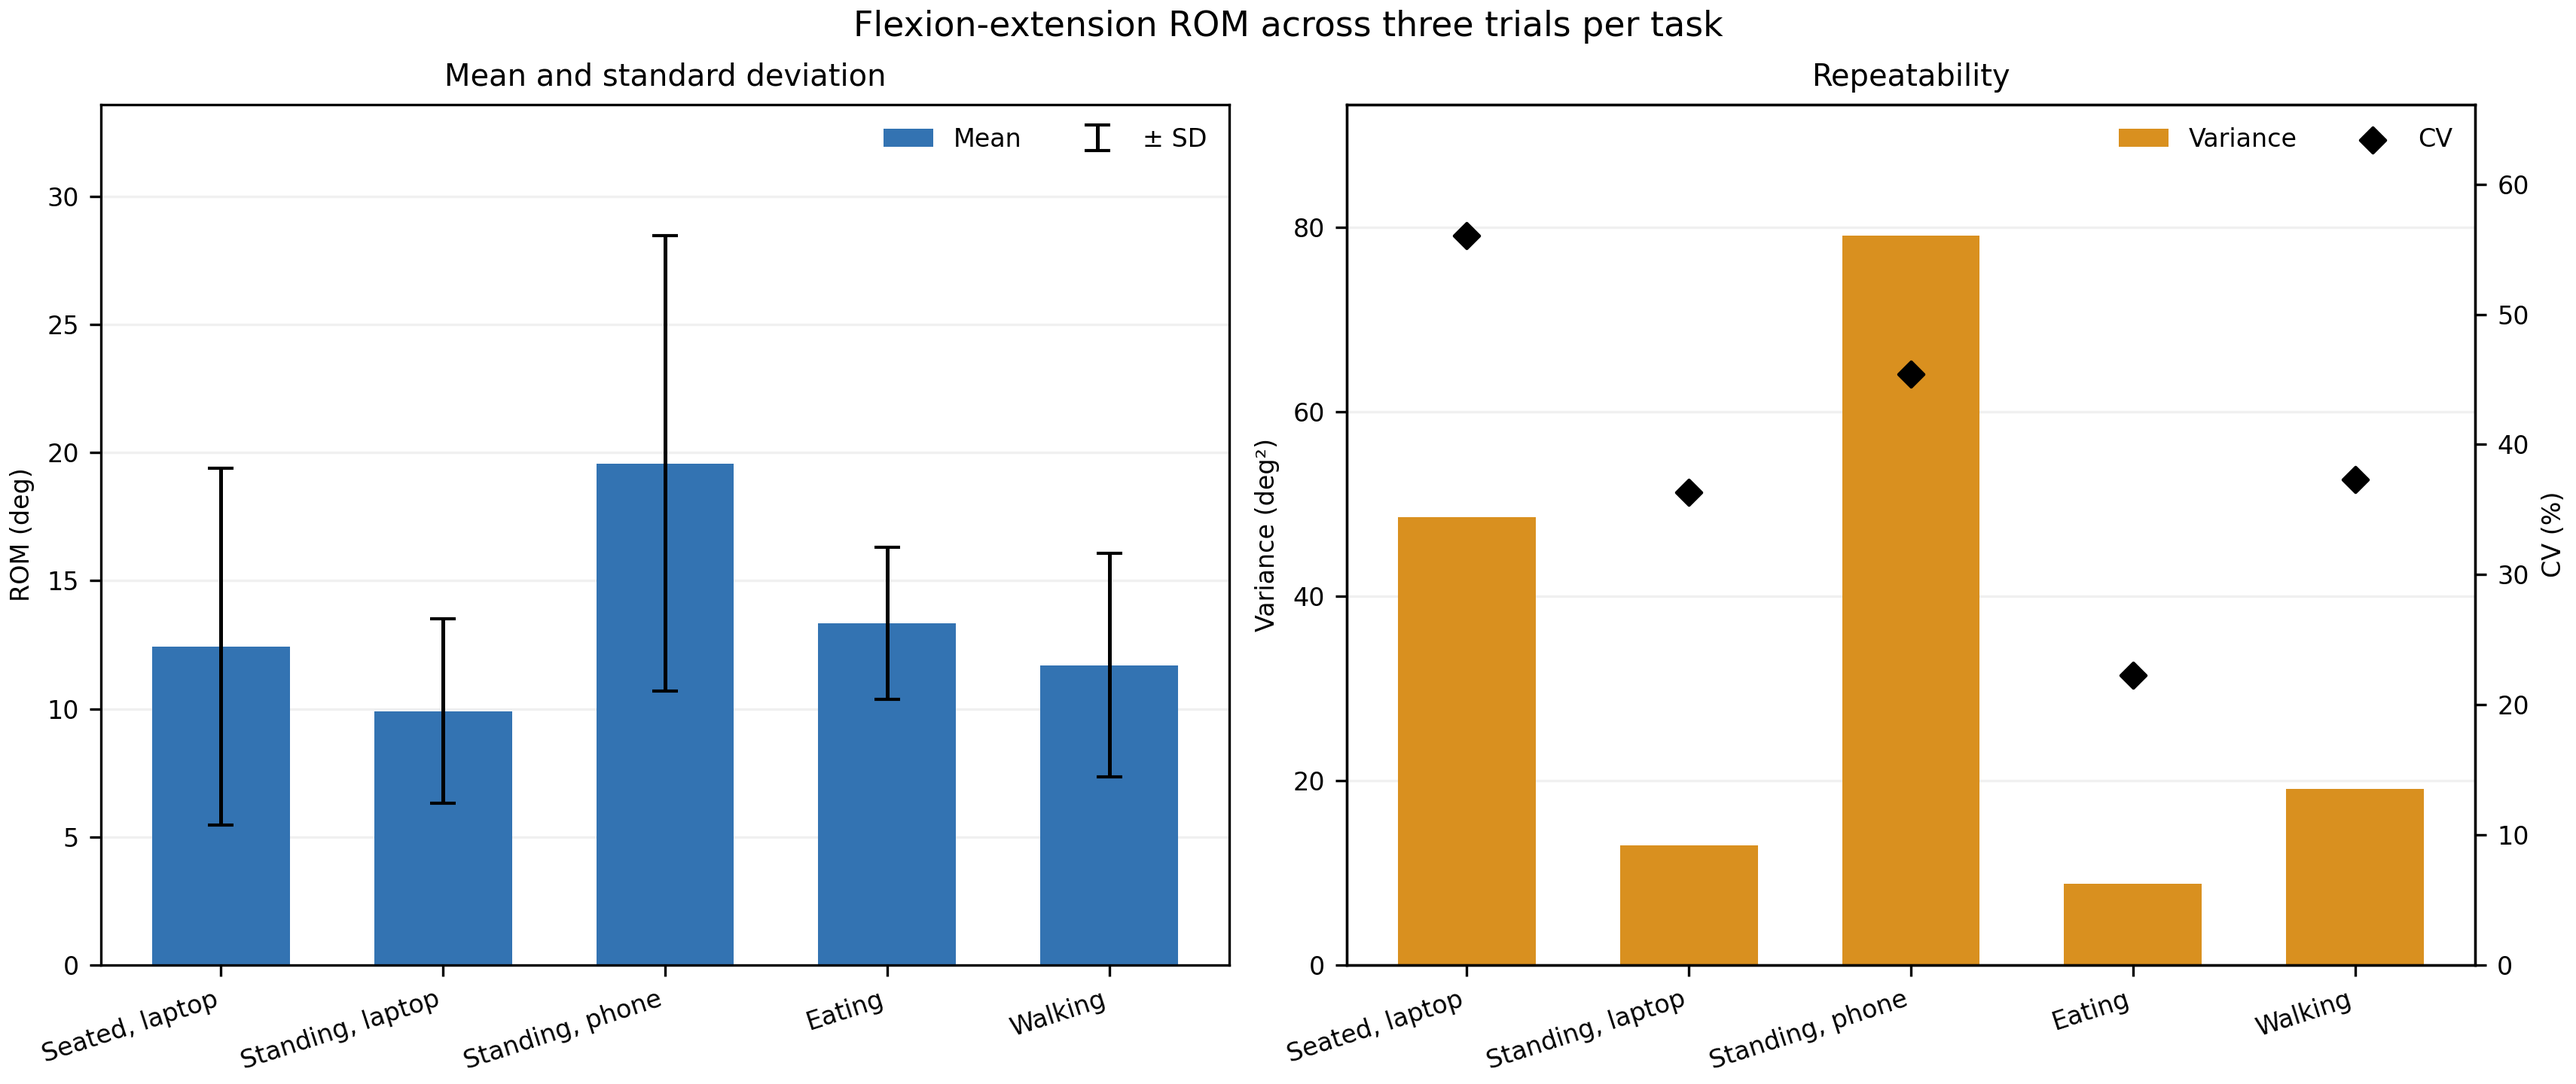
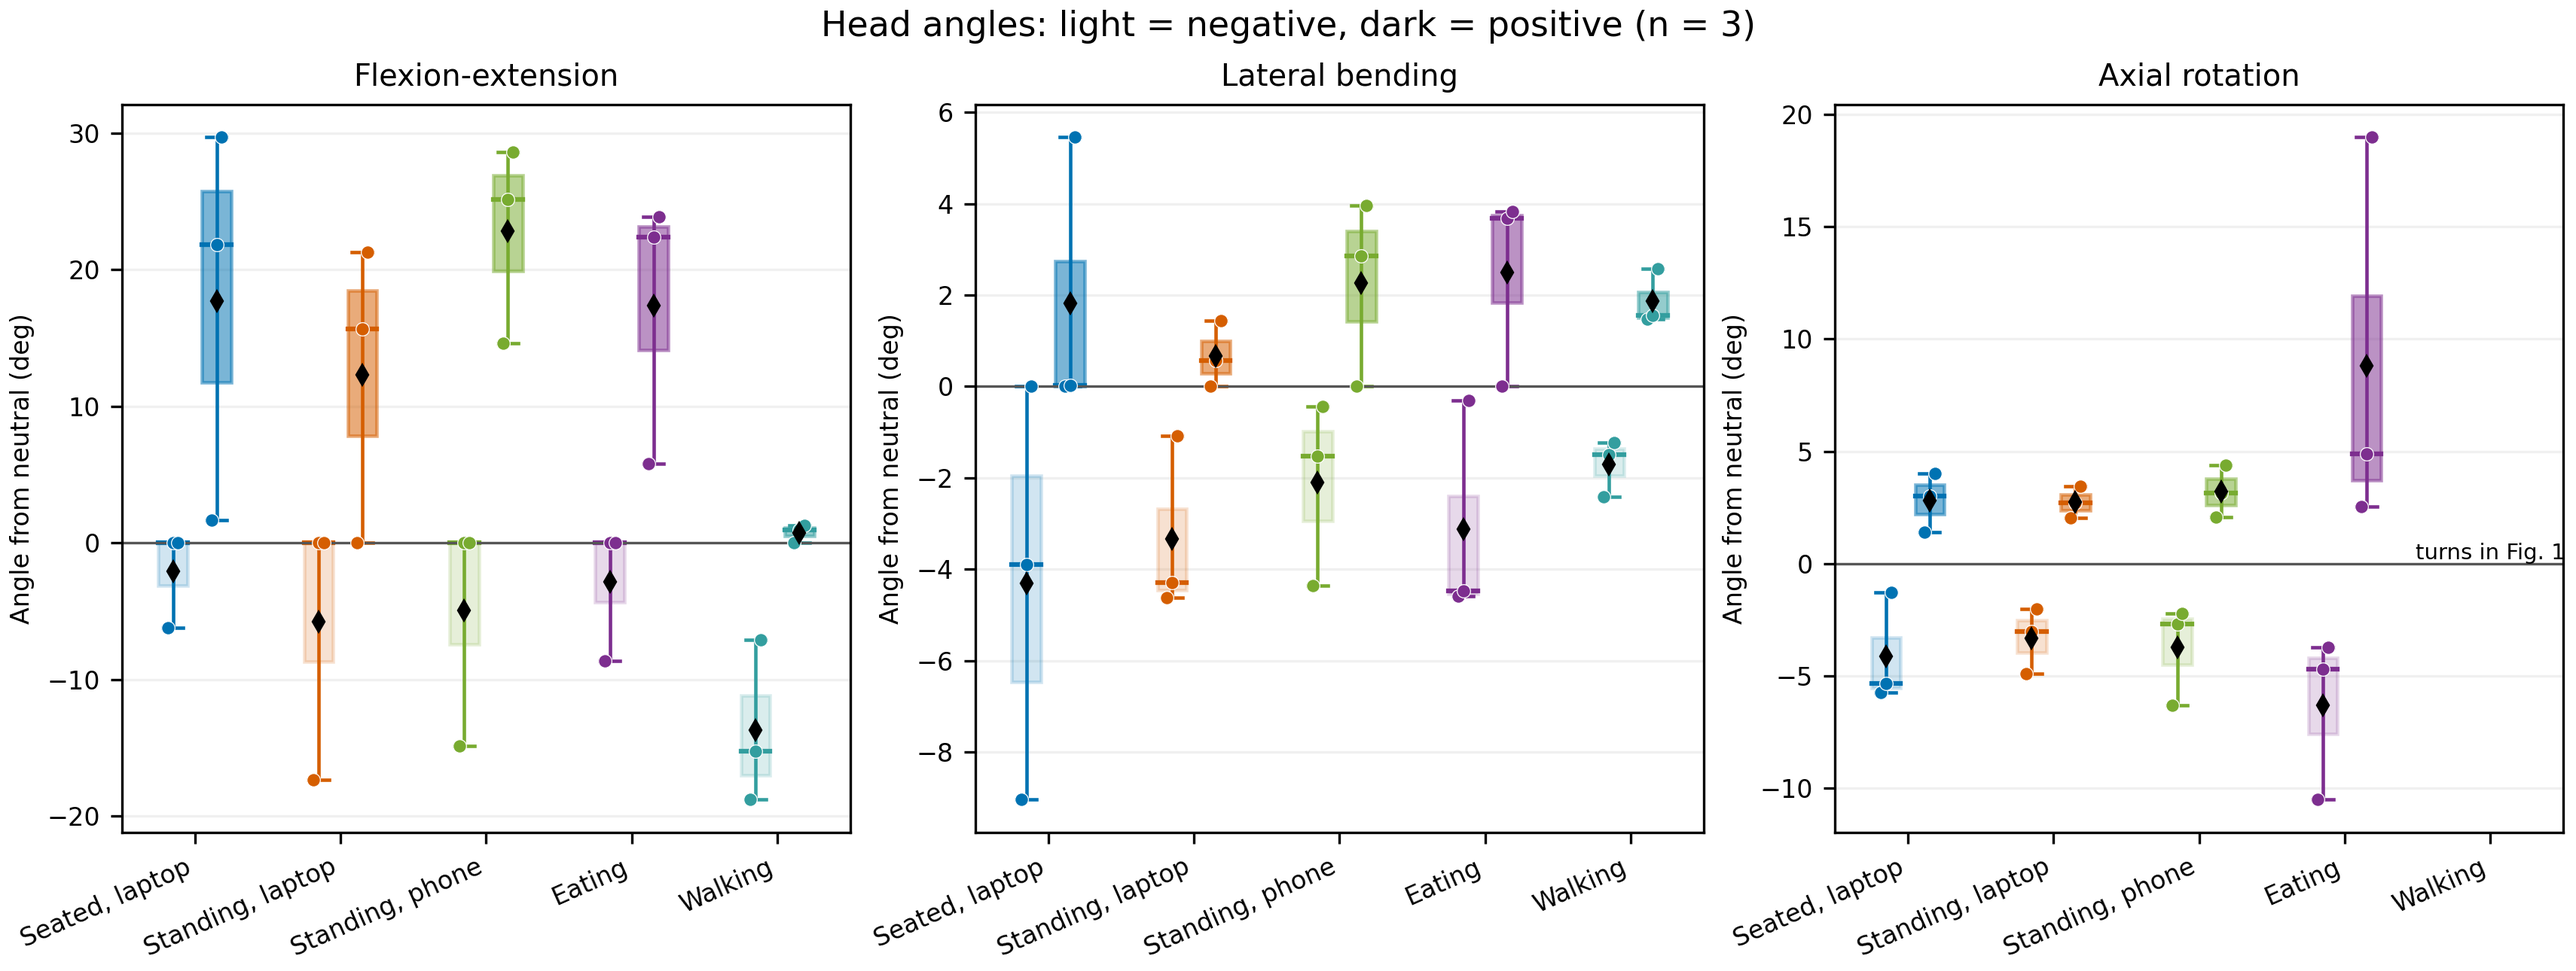
Show signed head-angle distributions in Figure 2

diff --git a/head_rom_analysis.m b/head_rom_analysis.m
@@ -47,6 +47,7 @@ fprintf('Sagittal calibration ROM: %.1f deg (%.1f flexion, %.1f extension)\n\n',
 nTasks = numel(tasks);
 ROMMean = zeros(nTasks,3);
 ROMSD = zeros(nTasks,3);
+trialBoundsAll = nan(nTasks,3,3,2);  % negative and positive limits
 keptPct = zeros(nTasks,1);
 curves = cell(nTasks,1);
 walkingAxialTrace = nan(cfg.window*cfg.sampleRateHz,3);
@@ -54,6 +55,8 @@ qualityChecks = zeros(3*nTasks,4);
 
 for taskIndex = 1:nTasks
     trialROM = nan(3,3);
+    trialLower = nan(3,3);
+    trialUpper = nan(3,3);
     trialKeptPct = zeros(3,1);
     taskCurves = nan(cfg.window*cfg.sampleRateHz,3,3);
 
@@ -67,12 +70,16 @@ for taskIndex = 1:nTasks
         end
 
         for planeIndex = 1:3
-            trialROM(trialIndex,planeIndex) = ...
+            [trialROM(trialIndex,planeIndex), ...
+             trialLower(trialIndex,planeIndex), ...
+             trialUpper(trialIndex,planeIndex)] = ...
                 calculatePercentileROM(angles(:,planeIndex));
         end
 
         if isWalkingTask(taskIndex)
             trialROM(trialIndex,3) = NaN;
+            trialLower(trialIndex,3) = NaN;
+            trialUpper(trialIndex,3) = NaN;
         end
 
         row = 3*(taskIndex-1) + trialIndex;
@@ -83,6 +90,8 @@ for taskIndex = 1:nTasks
 
     ROMMean(taskIndex,:) = mean(trialROM,1);
     ROMSD(taskIndex,:) = std(trialROM,0,1);
+    trialBoundsAll(taskIndex,:,:,1) = reshape(trialLower,[1 3 3]);
+    trialBoundsAll(taskIndex,:,:,2) = reshape(trialUpper,[1 3 3]);
     keptPct(taskIndex) = mean(trialKeptPct);
     curves{taskIndex} = taskCurves;
 end
@@ -191,55 +200,69 @@ ylabel(traceLayout,'Head angle (deg; axial detrended)', ...
 print(fig,'Fig1_traces.png','-dpng','-r300')
 print(fig,'Fig1_traces_updated.svg','-dsvg')
 
-%% PART 6 - FLEXION-EXTENSION STATISTICS
-figStats = figure('Color','w','Units','centimeters','Position',[2 2 29 13]);
-statsLayout = tiledlayout(figStats,1,2,'TileSpacing','loose','Padding','compact');
-x = 1:nTasks;
+%% PART 6 - DIRECTIONAL HEAD ANGLE BOXPLOTS
+figStats = figure('Color','w','Units','centimeters','Position',[2 2 29 10.5]);
+statsLayout = tiledlayout(figStats,1,3,'TileSpacing','compact','Padding','compact');
+taskColors = [0.00 0.45 0.74; 0.85 0.33 0.10; 0.47 0.67 0.19; ...
+              0.49 0.18 0.56; 0.20 0.62 0.63];
+planeNames = {'Flexion-extension','Lateral bending','Axial rotation'};
 
-axMean = nexttile(statsLayout);
-meanBars = bar(axMean,x,flexExtMean,0.62,'FaceColor',[0.20 0.45 0.70], ...
-    'EdgeColor','none','DisplayName','Mean');
-hold(axMean,'on')
-sdWhiskers = errorbar(axMean,x,flexExtMean,flexExtSD,'k', ...
-    'LineStyle','none','LineWidth',1.2,'CapSize',9,'DisplayName','+/- SD');
-ylim(axMean,[0 1.18*max(flexExtMean+flexExtSD)])
-ylabel(axMean,'ROM (deg)')
-title(axMean,'Mean and standard deviation','FontWeight','normal')
-legend(axMean,[meanBars sdWhiskers],{'Mean','+/- SD'}, ...
-    'Location','northeast','Orientation','horizontal', ...
-    'NumColumns',2,'FontSize',8,'Box','off')
+for planeIndex = 1:3
+    ax = nexttile(statsLayout);
+    hold(ax,'on')
+    for taskIndex = 1:nTasks
+        c = taskColors(taskIndex,:);
+        for directionIndex = 1:2
+            values = reshape(trialBoundsAll(taskIndex,:,planeIndex,directionIndex),[],1);
+            values = values(isfinite(values));
+            if numel(values) ~= 3
+                continue  % Walking axial rotation is displayed in Figure 1.
+            end
+            if directionIndex == 1
+                values = min(0,values);
+                boxAlpha = .18;
+            else
+                values = max(0,values);
+                boxAlpha = .52;
+            end
+            values = sort(values);
+            x = taskIndex + (directionIndex-1.5)*.30;
+            q1 = (values(1)+values(2))/2;
+            q3 = (values(2)+values(3))/2;
+            plot(ax,[x x],[values(1) values(3)],'Color',c,'LineWidth',1.1)
+            plot(ax,x+[-.07 .07],values([1 1]),'Color',c,'LineWidth',1.1)
+            plot(ax,x+[-.07 .07],values([3 3]),'Color',c,'LineWidth',1.1)
+            patch(ax,x+[-.10 .10 .10 -.10],[q1 q1 q3 q3],c, ...
+                'FaceAlpha',boxAlpha,'EdgeColor',c,'LineWidth',1.1)
+            plot(ax,x+[-.10 .10],values([2 2]),'Color',c,'LineWidth',1.5)
+            scatter(ax,x+[-.035 0 .035],values,18,c,'filled', ...
+                'MarkerEdgeColor','w','LineWidth',.3)
+            plot(ax,x,mean(values),'kd','MarkerSize',4,'MarkerFaceColor','k')
+        end
+    end
 
-axRepeat = nexttile(statsLayout);
-yyaxis(axRepeat,'left')
-varianceBars = bar(axRepeat,x,flexExtVar,0.62,'FaceColor',[0.85 0.55 0.12], ...
-    'EdgeColor','none','DisplayName','Variance');
-ylim(axRepeat,[0 1.18*max(flexExtVar)])
-ylabel(axRepeat,'Variance (deg^2)')
-yyaxis(axRepeat,'right')
-CVPoints = scatter(axRepeat,x,flexExtCV,32,'kd','filled','DisplayName','CV');
-ylim(axRepeat,[0 max(50,1.18*max(flexExtCV))])
-ylabel(axRepeat,'CV (%)')
-title(axRepeat,'Repeatability','FontWeight','normal')
-legend(axRepeat,[varianceBars CVPoints],{'Variance','CV'}, ...
-    'Location','northeast','Orientation','horizontal', ...
-    'NumColumns',2,'FontSize',8,'Box','off')
-
-for ax = [axMean axRepeat]
     ax.Color = 'w';
     ax.XColor = 'k';
+    ax.YColor = 'k';
     ax.FontName = 'Arial';
-    ax.FontSize = 8.5;
+    ax.FontSize = 8;
     ax.LineWidth = 0.8;
-    ax.XTick = x;
+    ax.XTick = 1:nTasks;
     ax.XTickLabel = tasks;
-    ax.XTickLabelRotation = 18;
+    ax.XTickLabelRotation = 24;
     ax.YGrid = 'on';
     ax.GridAlpha = 0.18;
+    ax.XLim = [0.5 nTasks+0.5];
+    yline(ax,0,'Color',[.3 .3 .3],'LineWidth',.8)
+    ylabel(ax,'Angle from neutral (deg)')
+    title(ax,planeNames{planeIndex},'FontWeight','normal')
     box(ax,'on')
+    if planeIndex == 3
+        text(ax,5,0,'turns in Fig. 1','HorizontalAlignment','center', ...
+            'VerticalAlignment','bottom','FontSize',7)
+    end
 end
-axRepeat.YAxis(1).Color = 'k';
-axRepeat.YAxis(2).Color = 'k';
 
-sgtitle(statsLayout,'Flexion-extension ROM across three trials per task', ...
+sgtitle(statsLayout,'Head angles: light = negative, dark = positive (n = 3)', ...
     'FontName','Arial','FontSize',11,'FontWeight','normal')
 print(figStats,'Fig2_flexext_statistics.png','-dpng','-r300')

diff --git a/calculatePercentileROM.m b/calculatePercentileROM.m
@@ -1,14 +1,19 @@
-function ROM = calculatePercentileROM(x)
-%CALCULATEPERCENTILEROM Return the 2.5th-to-97.5th percentile head ROM.
+function [ROM,lowerBound,upperBound] = calculatePercentileROM(x)
+%CALCULATEPERCENTILEROM Return head ROM and its signed percentile bounds.
+%   ROM is upperBound - lowerBound after omitting NaNs.
 
 x = sort(x(~isnan(x)));
 n = numel(x);
 if n < 40
     ROM = NaN;
+    lowerBound = NaN;
+    upperBound = NaN;
     return
 end
 
 lowerIndex = max(1,round(0.025*n));
 upperIndex = min(n,round(0.975*n));
-ROM = x(upperIndex)-x(lowerIndex);
+lowerBound = x(lowerIndex);
+upperBound = x(upperIndex);
+ROM = upperBound-lowerBound;
 end

diff --git a/README.md b/README.md
@@ -8,6 +8,8 @@ For the previously published report, see the [feasibility report (PDF)](Head_Mov
 
 ![Head-angle traces, including walking axial rotation](Fig1_traces.png)
 
+![Directional head-angle box plots across five tasks](Fig2_flexext_statistics.png)
+
 ## Run
 
 Requires MATLAB R2019b or later and Signal Processing Toolbox.
@@ -48,7 +50,7 @@ Walking consists of straight paths separated by approximately 180 deg direction 
 - `TableI_results.csv` — mean and SD for all three head ROM planes, flexion-extension variance and CV, and retained data
 - `TableII_checks.csv` — per-trial sampling rate, neutral-hold SD, yaw trend, and neutral phone inclination
 - `Fig1_traces.png` and `Fig1_traces_updated.svg` — 180 s head-angle traces, including walking axial rotation with its lap turns
-- `Fig2_flexext_statistics.png` — mean, SD, variance, and CV
+- `Fig2_flexext_statistics.png` — directional angle box plots for all three planes, colored by task. The light box shows the negative 2.5th-percentile bound (capped at zero); the dark box shows the positive 97.5th-percentile bound (floored at zero). Each box summarizes the three trials: interpolated quartiles, min–max whiskers, trial dots, and a mean diamond. Walking axial angles are shown in Figure 1 but excluded from this task comparison because of whole-body turns. ROM mean, SD, variance, and CV remain in `TableI_results.csv`.
 
 ## Separate validation
 
